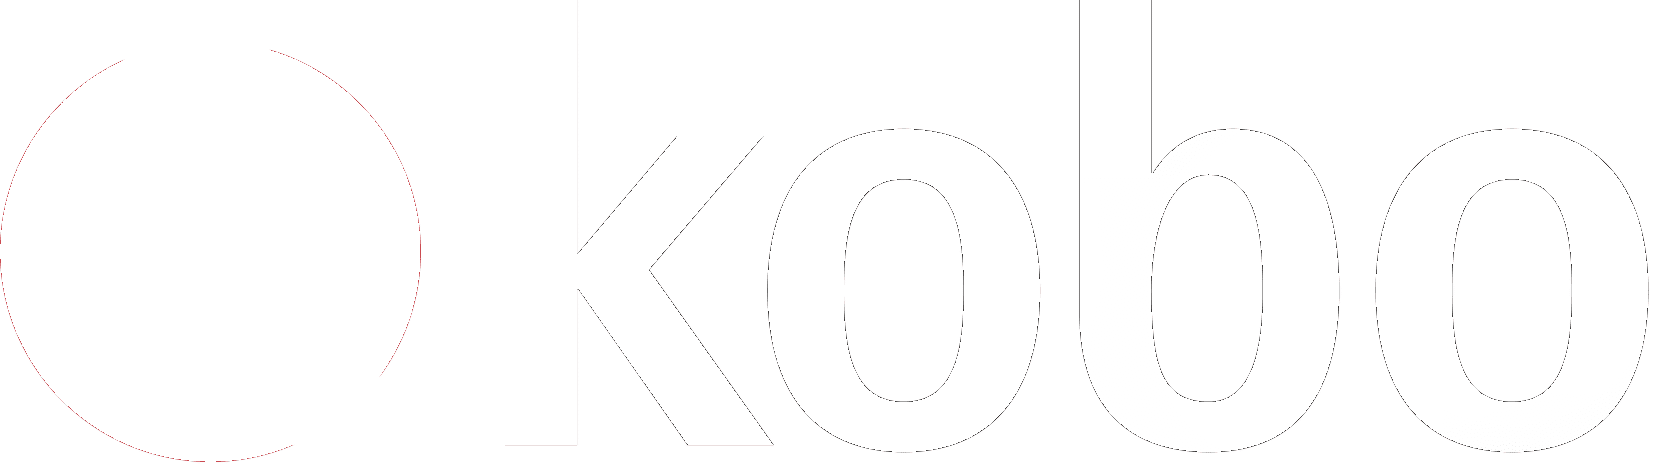
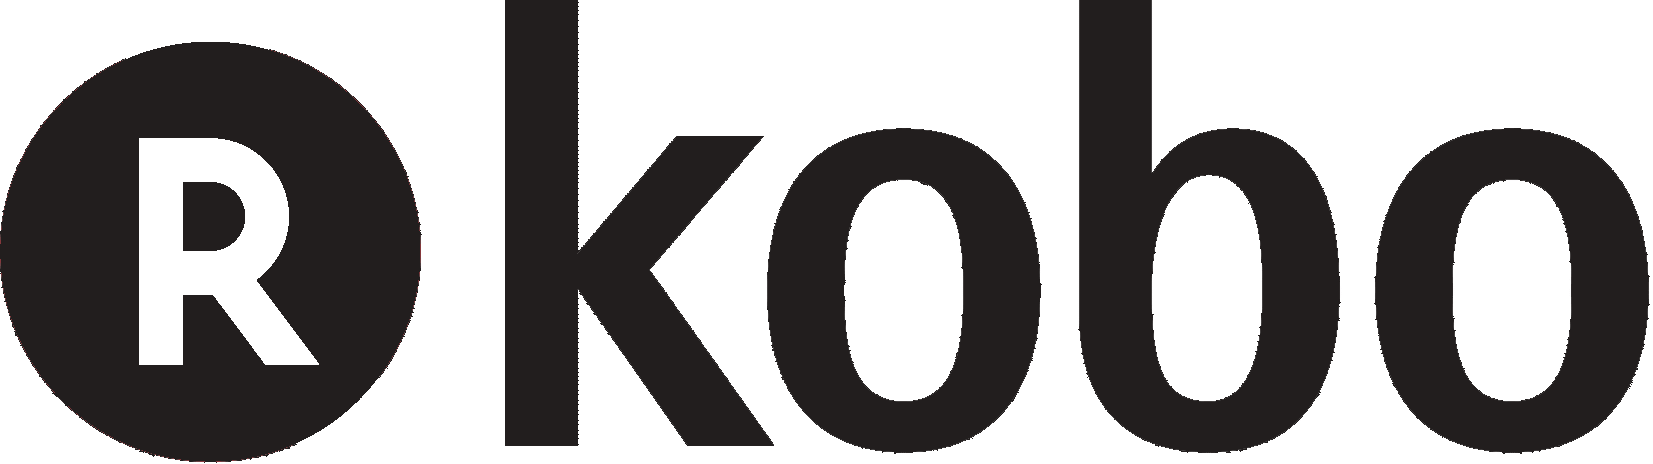
financeiramente color change

diff --git a/como-viver-financeramente/style.scss b/como-viver-financeramente/style.scss
@@ -29,7 +29,7 @@ body {
     padding-bottom: 0;
 
     h1, h3, p{
-        color: #f8f8f8;
+        color: #242424;
     }
     #description{
         text-align: justify;

diff --git a/como-viver-financeramente/style.css b/como-viver-financeramente/style.css
@@ -32,7 +32,7 @@ body {
 }
 
 #links h1, #links h3, #links p {
-  color: #f8f8f8;
+  color: #242424;
 }
 
 #links #description {
